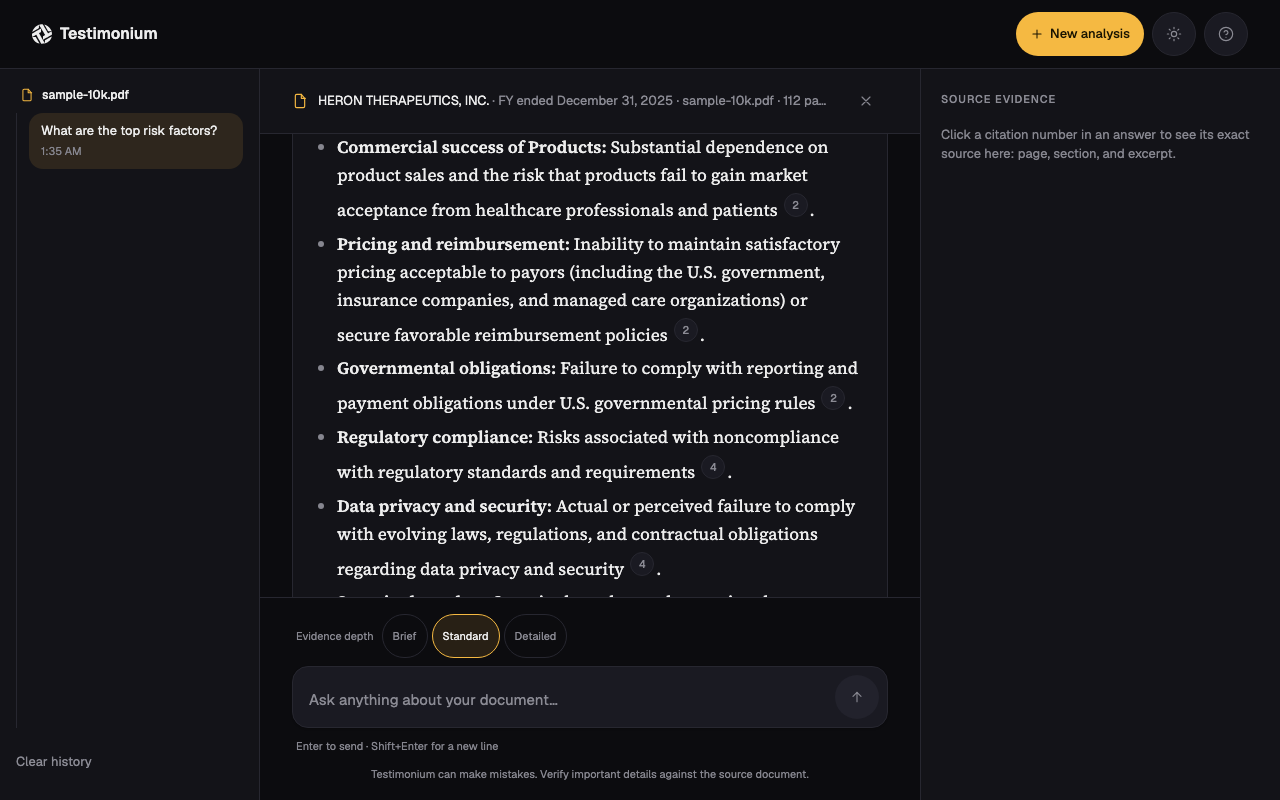
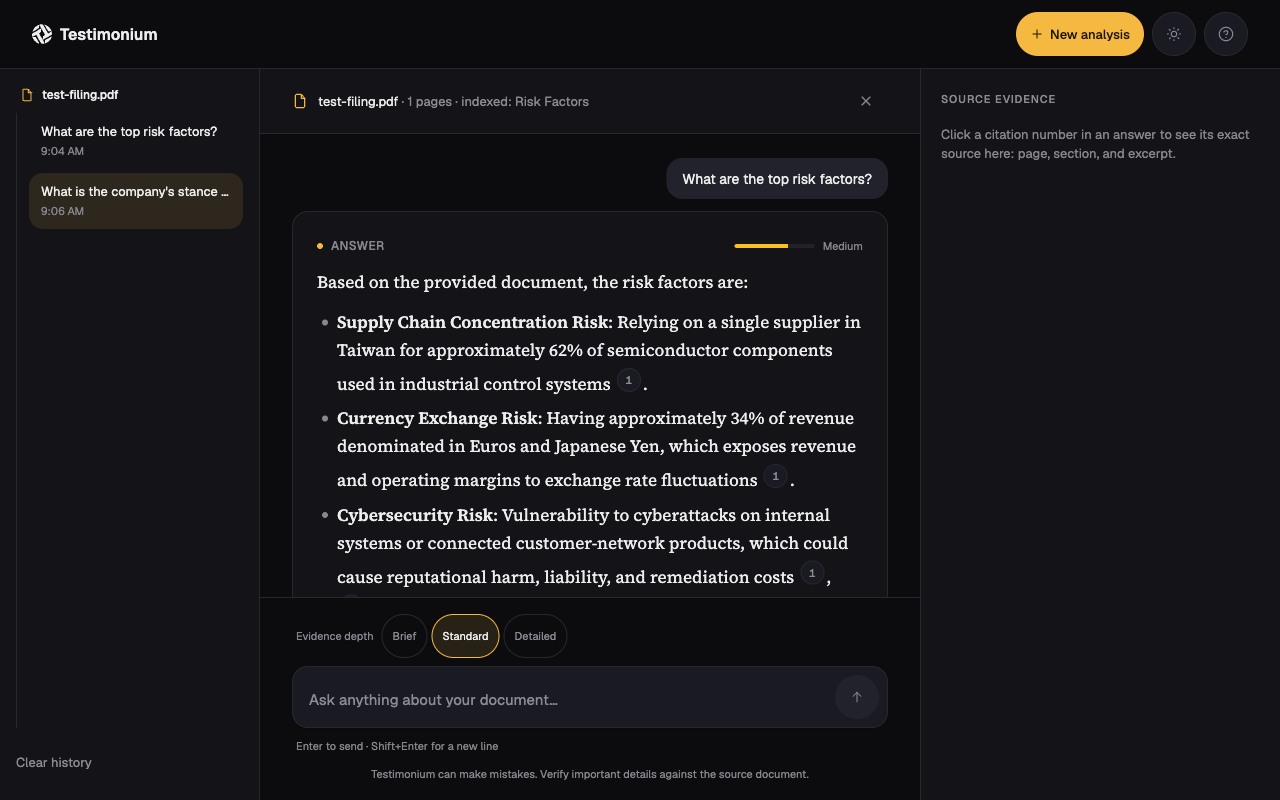
Recapture stale screenshots against the fixed live product
Playwright MCP's browser_take_screenshot writes real files, unlike the
Browser-pane and native-desktop capture paths tried first, so this
closes out the four screenshots flagged STALE last commit plus a fifth
found by inspection (case-testimonium/img/06-mobile-conversation.png,
same old confidence-label problem, missed by the earlier filename
grep since it's a separate asset):

- FinFlow's new-expense form, recaptured blank (Employee role)
- Precision Cab's active-pass screen, recaptured with no compass
  artifact (cropped to the app frame directly since the 1440x900
  original included preview-chrome that can't be reproduced exactly)
- Testimonium's two confidence-badge shots plus the mobile one,
  recaptured via a real document upload and two real live queries
  against production, showing Medium/Low instead of the old
  Partial/Uncertain labels

Removed the STALE markers now that each is verified current, and
verified all five render without distortion or empty space in their
case-study frames before committing.

diff --git a/case-testimonium/index.html b/case-testimonium/index.html
@@ -11,11 +11,9 @@
 <meta property="og:type" content="article" />
 <meta property="og:title" content="Testimonium — AI RAG Case Study · Naveen Sereddy" />
 <meta property="og:description" content="A RAG-powered research assistant that answers questions about SEC filings with page-cited evidence. Discovery through a shipped production app." />
-<!-- STALE (2026-08-20): pre-fix artifact, see detailed note at the hero <img> below. -->
 <meta property="og:image" content="https://naveensereddy.com/case-testimonium/img/03-conversation-answer.png" />
 <meta property="og:url" content="https://naveensereddy.com/case-testimonium/" />
 <meta name="twitter:card" content="summary_large_image" />
-<!-- STALE (2026-08-20): pre-fix artifact, see detailed note at the hero <img> below. -->
 <meta name="twitter:image" content="https://naveensereddy.com/case-testimonium/img/03-conversation-answer.png" />
 <link rel="preconnect" href="https://fonts.googleapis.com" />
 <link rel="preconnect" href="https://fonts.gstatic.com" crossorigin />
@@ -68,12 +66,6 @@
         <span class="meta-item">NDA: <strong>Firm name withheld</strong></span>
       </div>
       <div class="frame" style="--ar:1280/800;margin-top:2.5rem">
-        <!-- STALE (2026-08-20): pre-fix artifact. img/03-conversation-answer.png (used
-             6x in this document, plus og:image/twitter:image above) was captured before
-             the confidence badge labels were fixed from Supported/Partial/Uncertain to
-             High/Medium/Low (see Testimonium commit 91daf6f) — this screenshot likely
-             still shows an old label baked into the pixels. Do not present as current
-             until recaptured. -->
         <img src="img/03-conversation-answer.png" alt="Testimonium answer screen, a real Gemini response to a risk-factors question with five inline citation chips" loading="eager" decoding="async" />
       </div>
     </div>
@@ -262,7 +254,6 @@
           </div>
           <div class="evolution-step">
             <div class="evolution-label"><span class="dot"></span>Final UI</div>
-            <!-- STALE (2026-08-20): pre-fix artifact, see detailed note at the hero <img> above. -->
             <div class="frame" style="--ar:1280/800"><img src="img/03-conversation-answer.png" alt="Final answer screenshot, real Gemini response to a risk-factors question with five inline citation chips" loading="lazy" /></div>
             <p>A real question, a real Gemini answer, five real citation chips. Same card shape as the wireframe, now carrying serif body text and the amber confidence token.</p>
           </div>
@@ -281,7 +272,6 @@
       </div>
       <div class="anno-block">
         <div class="anno-wrap">
-          <!-- STALE (2026-08-20): pre-fix artifact, see detailed note at the hero <img> above. -->
           <img src="img/03-conversation-answer.png" alt="Testimonium answer annotated with three research-driven design decisions" loading="lazy" />
           <span class="anno-dot" style="left:79%; top:15%" aria-hidden="true">1</span>
           <span class="anno-dot" style="left:60%; top:42%" aria-hidden="true">2</span>
@@ -403,16 +393,10 @@
       <div class="shot-grid">
         <div class="shot-item"><div class="frame" style="--ar:2400/1350"><img src="img/01-empty-upload.png" alt="Document ready, three suggested questions after a real upload" loading="lazy" /></div><span class="shot-cap">Document ready, suggested questions</span></div>
         <div class="shot-item"><div class="frame" style="--ar:1280/800"><img src="img/02-upload-progress.png" alt="Upload zone mid-processing" loading="lazy" /></div><span class="shot-cap">Upload in progress</span></div>
-        <!-- STALE (2026-08-20): pre-fix artifact, see detailed note near the hero <img> above. -->
         <div class="shot-item"><div class="frame" style="--ar:1280/800"><img src="img/03-conversation-answer.png" alt="A real answer with confidence gauge and inline citation chips" loading="lazy" /></div><span class="shot-cap">A real answer, live citations</span></div>
         <div class="shot-item"><div class="frame" style="--ar:1280/800"><img src="img/04-citation-expanded.png" alt="Citation expanded to show source page and excerpt" loading="lazy" /></div><span class="shot-cap">Citation expanded, page and excerpt</span></div>
         <div class="shot-item"><div class="frame" style="--ar:1280/800"><img src="img/09-evidence-panel.png" alt="The persistent evidence panel on desktop, populated with a real citation and a link into the uploaded PDF" loading="lazy" /></div><span class="shot-cap">Evidence panel, always visible on desktop</span></div>
         <div class="shot-item"><div class="frame" style="--ar:1280/800"><img src="img/07-light-theme.png" alt="The same conversation in light theme" loading="lazy" /></div><span class="shot-cap">Light theme</span></div>
-        <!-- STALE (2026-08-20): pre-fix artifact. Captured before the confidence badge
-             labels were fixed from Supported/Partial/Uncertain to High/Medium/Low (see
-             Testimonium commit 91daf6f) — this screenshot of a refusal likely still
-             shows the old "Uncertain" label instead of "Low". Do not present as current
-             until recaptured. -->
         <div class="shot-item"><div class="frame" style="--ar:1280/800"><img src="img/08-low-confidence.png" alt="A genuine refusal: the model declining to answer a question the filing doesn't cover" loading="lazy" /></div><span class="shot-cap">Refusing to guess</span></div>
       </div>
       <div style="max-width:220px;margin:var(--sp-7) auto 0">

diff --git a/case-precisioncab/index.html b/case-precisioncab/index.html
@@ -253,11 +253,6 @@
       <div class="shot-grid">
         <div class="shot-item"><div class="frame"><img src="img/hero-cab-home.png" alt="Cab home with live telemetry, boom status, and field map" loading="lazy" /></div><span class="shot-cap">Cab Home</span></div>
         <div class="shot-item"><div class="frame"><img src="img/hero-field-select.png" alt="Field select with satellite and NDVI map modes" loading="lazy" /></div><span class="shot-cap">Field Select</span></div>
-        <!-- STALE (2026-08-20): pre-fix artifact. Captured before the compass indicator
-             was disabled on this screen (see Precision-Cab commit 24da0e9) — this
-             screenshot likely still shows the compass sliver artifact behind the
-             guidance overlay at the tablet breakpoint. Do not present as current until
-             recaptured. -->
         <div class="shot-item"><div class="frame"><img src="img/hero-active-pass.png" alt="Active pass with guidance overlay, boom diagram, and pass metrics" loading="lazy" /></div><span class="shot-cap">Active Pass</span></div>
         <div class="shot-item"><div class="frame"><img src="img/hero-rate-change.png" alt="Rate change keypad with live tank-mix math" loading="lazy" /></div><span class="shot-cap">Rate Change</span></div>
         <div class="shot-item"><div class="frame"><img src="img/hero-boom-fault.png" alt="Boom fault alert with single stop action" loading="lazy" /></div><span class="shot-cap">Boom Fault</span></div>

diff --git a/src/main.js b/src/main.js
@@ -150,7 +150,6 @@
       urlLabel: "testimonium.vercel.app",
       shots: [
         { src: "case-testimonium/img/01-empty-upload.png",      cap: "Document ready, suggested questions after a real upload" },
-        // STALE (2026-08-20): pre-fix artifact, see case-testimonium/index.html for detail.
         { src: "case-testimonium/img/03-conversation-answer.png", cap: "A real Gemini answer with inline citation chips" },
         { src: "case-testimonium/img/04-citation-expanded.png",  cap: "Citation expanded, exact page and source excerpt" },
         { src: "case-testimonium/img/09-evidence-panel.png",     cap: "Persistent evidence panel, always visible on desktop" },
@@ -266,7 +265,6 @@
       shots: [
         { src: "case-precisioncab/img/hero-cab-home.png",    cap: "Cab home, live telemetry, boom status, and field map" },
         { src: "case-precisioncab/img/hero-field-select.png", cap: "Field select, satellite and NDVI map modes" },
-        // STALE (2026-08-20): pre-fix artifact, see case-precisioncab/index.html for detail.
         { src: "case-precisioncab/img/hero-active-pass.png",  cap: "Active pass, guidance overlay and boom diagram" },
         { src: "case-precisioncab/img/hero-rate-change.png",  cap: "Rate change keypad with live tank-mix math" },
         { src: "case-precisioncab/img/hero-boom-fault.png",   cap: "Boom fault alert, single action, no menu" },

diff --git a/case-finflow/index.html b/case-finflow/index.html
@@ -205,10 +205,6 @@
         </div>
         <div class="evolution-step">
           <div class="evolution-label"><span class="dot"></span>Final UI</div>
-          <!-- STALE (2026-08-20): pre-fix artifact. Captured before the New Expense
-               form's pre-filled defaultValues were cleared (see FinFlow commit
-               5ed450b) — this screenshot still shows the old pre-populated fields.
-               Do not present as current until recaptured. -->
           <div class="frame"><img src="img/ui-new-expense.png" alt="Final new expense form with top nav, receipt dropzone, and approval preview" loading="lazy" /></div>
           <p>Same structure, now with the visual system applied: cold neutral base, slate blue accent, the virtual card rendered as a real object on screen. Nothing about the layout changed, because the wireframe already got it right.</p>
         </div>

diff --git a/naveensereddy-portfolio-audit.md b/naveensereddy-portfolio-audit.md
@@ -102,10 +102,11 @@ All four P1s fixed and verified live. FinFlow OCR chip (P2) and Reject/Approve f
 **Open, deliberately unresolved — requires a decision, not fixed either direction:**
 NAVI's case study copy ("13-month plan, not 12," decision card 04 and reflection item 2) names 13 months as NAVI's recommended plan length. The shipped prototype's default Emergency Fund state is 14 months / 71% confidence / Jun 2027 — 13 months / 82% / Mar 2027 is only reached after the user resolves the pending alert via "Work expenses." The P1-04 fix made the app internally consistent (all screens now agree with each other), but that converged on the 14-month default, which the case study's narrative directly contradicts. Retained the internally-consistent 14-month implementation as-is per instruction; did not alter the app to match the narrative. Flagged inline in `case-navi/index.html` at both prose mentions and both conflicting screenshot alt texts (`ui-web-goals.png` says 14-month, `hifi-mobile-goals.png` says 13-month). Needs a decision: either the case study copy gets rewritten around the 14-month/alert-degradation framing, or the app's default `ac` state gets changed to resolve to the 13-month numbers.
 
-**Stale screenshots, explicitly labeled, not replaced:**
-No tool in this session's toolset can capture and save an actual screenshot file to disk (only inline display). Rather than leave these silently outdated, each is now flagged in-repo with a `STALE` HTML/JS comment at every point it's referenced, so it can't be mistaken for current:
-- `case-finflow/img/ui-new-expense.png` — predates the pre-filled-form fix (FinFlow `5ed450b`), still shows the old populated fields.
-- `case-precisioncab/img/hero-active-pass.png` — predates the compass-sliver fix (Precision-Cab `24da0e9`), likely still shows the artifact.
-- `case-testimonium/img/03-conversation-answer.png` and `img/08-low-confidence.png` — predate the confidence-label fix (Testimonium `91daf6f`), likely still show the old Supported/Partial/Uncertain labels instead of High/Medium/Low.
+**Stale screenshots — recaptured via Playwright MCP, `STALE` flags removed:**
+The original toolset (Browser-pane `computer` screenshot) has no save-to-disk capability; a native-desktop capture attempt (`claude-in-chrome`'s `save_to_disk`) also produced no file reachable from the local filesystem after an exhaustive search. Playwright MCP's `browser_take_screenshot` does write real files, and was used to recapture all five affected screenshots against the live, fixed product:
+- `case-finflow/img/ui-new-expense.png` — recaptured at 1440x900, Employee role, blank form (placeholders visible, no pre-filled data). Matches the FinFlow `5ed450b` fix.
+- `case-precisioncab/img/hero-active-pass.png` — recaptured at Cab console (1440) mode, cropped to the `.preview-shell` element (1122x780, native aspect — the original 1440x900 crop included preview-mode chrome that couldn't be reproduced pixel-for-pixel; this crop has zero empty space and no distortion, consistent with Rule 2). No compass sliver, confirms the Precision-Cab `24da0e9` fix live on Vercel.
+- `case-testimonium/img/03-conversation-answer.png` (1280x800) and `img/08-low-confidence.png` (1280x800) — recaptured via a real upload (synthetic 10-K generated for this purpose) and two real Gemini queries against testimonium.vercel.app. Badges read "Medium" and "Low" respectively, confirming the Testimonium `91daf6f` fix live in production.
+- `case-testimonium/img/06-mobile-conversation.png` (390x844) — a sixth instance of the same stale-label problem, found only by visually inspecting the rendered page after the other four were fixed (it wasn't caught by the earlier filename grep since it's a distinct image file). Recaptured the same way at mobile viewport width.
 
-These four need a manual recapture pass (or a session with real screenshot-to-file tooling) before they can be un-flagged.
+All five verified rendering correctly in their case-study frames (no distortion, no empty space, consistent sizing with siblings in the same shot-grid) before being committed.
